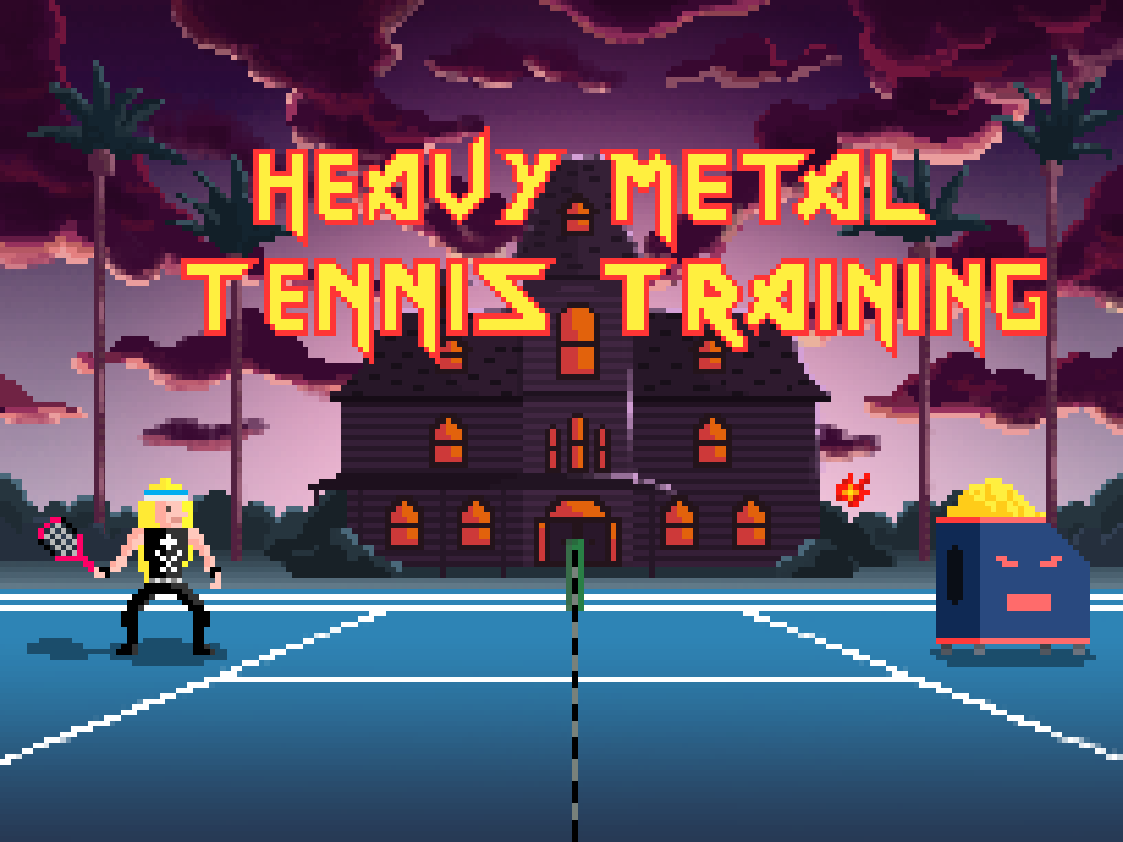
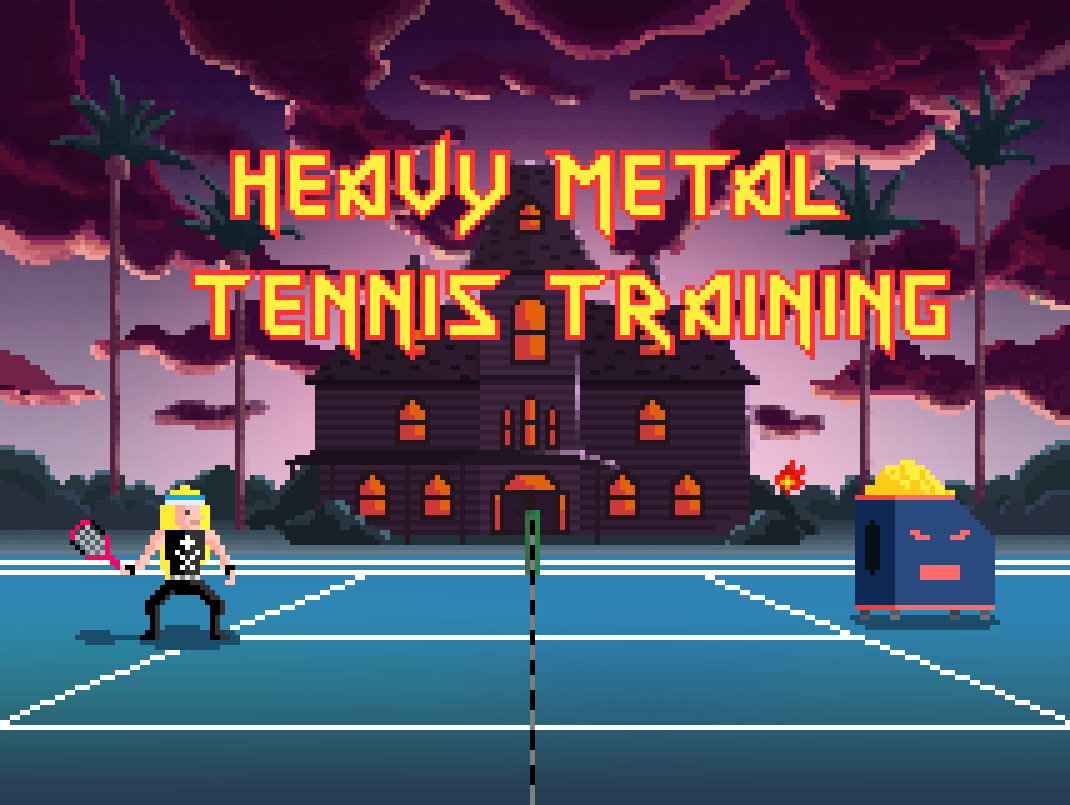
New bg image

diff --git a/stylesheets/stylesheet.css b/stylesheets/stylesheet.css
@@ -587,6 +587,8 @@ body {
   color: #fff;
   background: #273a55 url(../img/top_bg2.png) 50% 0 no-repeat;
   background-size: 100% auto;
+/*  image-rendering: pixelated;
+  image-rendering: -moz-crisp-edges;*/
   -webkit-font-smoothing: antialiased;
   -moz-osx-font-smoothing: grayscale;}
 .menu {
